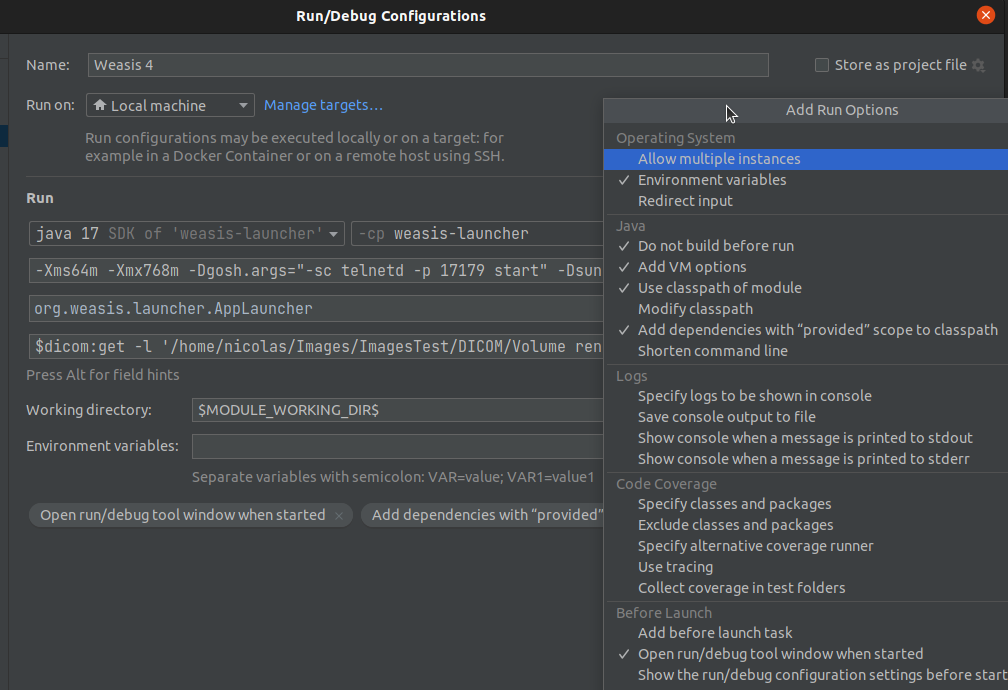
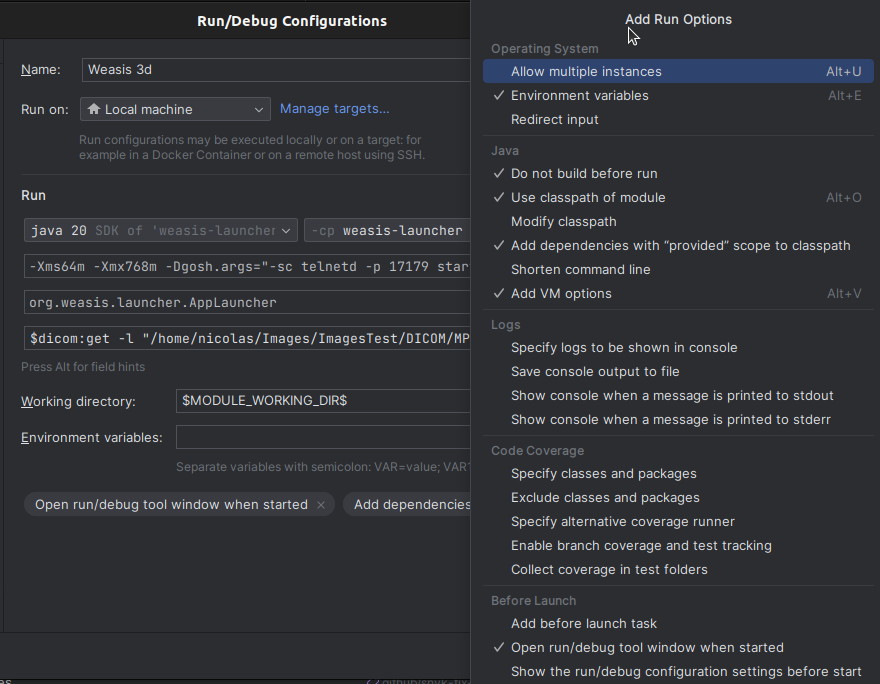
Update build weasis

diff --git a/content/getting-started/building-weasis.en.md b/content/getting-started/building-weasis.en.md
@@ -9,10 +9,10 @@ These instructions describe how to build Weasis directly from the Git repository
 
 **Prerequisites**
 
-1. JDK 17 or higher
+1. JDK 20 or higher
 2. Maven 3.5.3 or higher<br>
    If your computer is behind a proxy server, [configure maven](https://maven.apache.org/guides/mini/guide-proxies.html).
-3. Git or directly download source from [GitHub](https://github.com/nroduit/Weasis)
+3. Git
 
 ### Getting the Source
 
@@ -29,7 +29,7 @@ git clone https://github.com/nroduit/Weasis.git
 mvn clean install
 {{< /highlight >}}
 
-- Package the distribution (output files are located in `target/native-dist/`) {{< badge "v4.0.0" >}} :
+- Package `weasis-native.zip` (located in `target/native-dist/`) {{< badge "v4.0.0" >}} :
 {{< highlight shell >}}
 mvn -P compressXZ -f weasis-distributions clean package
 {{< /highlight >}}
@@ -57,40 +57,26 @@ Since {{< badge "v4.0.0" >}} , the native installer has completely replaced the 
 
 The [official build](https://github.com/nroduit/Weasis/blob/master/.github/workflows/build-installer.yml) is done by Github actions with [GitHub-hosted runners](https://docs.github.com/en/actions/using-github-hosted-runners/about-github-hosted-runners) (Linux, Mac OS and Windows). 
 
-However, it is possible to run a local script `weasis-distributions/script/package-weasis.sh` on most systems but without guarantee because the system must have a correct configuration of several tools (see [jpackage prerequisites](https://docs.oracle.com/en/java/javase/20/jpackage/packaging-overview.html)).
+However, it is possible to run a local script `package-weasis.sh` on most systems but without guarantee because the system must have a correct configuration of several tools (see [jpackage prerequisites](https://docs.oracle.com/en/java/javase/20/jpackage/packaging-overview.html)).
 
-- From the Weasis root folder, unzip the package built in the previous step:
+- Get `weasis-native.zip`, unzip the archive and then go to the root folder with a bash prompt. 
+- Build the native binaries and the installer:
 {{< tabs groupId="build-native" >}}
 {{% tab name="Bash" %}}
 {{< highlight shell >}}
-unzip weasis-distributions/target/native-dist/weasis-native.zip -d weasis-distributions/target/native-dist/weasis-native/
-{{< /highlight >}}
-{{% /tab %}}
-{{< /tabs >}}
-- Build only the native binaries (without installer)
-{{< tabs groupId="build-native" >}}
-{{% tab name="Bash" %}}
-{{< highlight shell >}}
-weasis-distributions/script/package-weasis.sh --input ./weasis-distributions/target/native-dist/weasis-native --output build-dist --no-installer --jdk /home/.jdks/temurin-18.0.1
-{{< /highlight >}}
-{{% /tab %}}
-{{< /tabs >}}
-- Build the native binaries and the installer
-{{< tabs groupId="build-native" >}}
-{{% tab name="Bash" %}}
-{{< highlight shell >}}
-weasis-distributions/script/package-weasis.sh --input ./weasis-distributions/target/native-dist/weasis-native --output build-installer --jdk /home/.jdks/temurin-18.0.1
+./build/script/package-weasis.sh --jdk "/home/.jdks/openjdk-20"
 {{< /highlight >}}
 {{% /tab %}}
 {{< /tabs >}}
 
 {{% notice note %}}
-In the commands above, adapt the options `--output` and `--jdk` to your configuration.<br>
-In order to see the use of the script and its options, run:
-{{< highlight shell >}}
-weasis-distributions/script/package-weasis.sh --help
-{{< /highlight >}}
-{{% /notice %}}
+- In the commands above, adapt the `--jdk` value to your local JDK path.<br>
+- For building only the native binaries (without installer), add the parameter `--no-installer`<br>
+- In order to see the use of the script and its options, run:
+  {{< highlight shell >}}
+  ./build/script/package-weasis.sh --help
+  {{< /highlight >}}
+  {{% /notice %}}
 
 {{% notice tip %}}
 On Windows the bash script must be executed with Git Bash or Cygwin. Avoid having spaces in the input and output paths.

diff --git a/content/getting-started/guidelines.en.md b/content/getting-started/guidelines.en.md
@@ -13,8 +13,8 @@ This page describes the necessary configurations to be able to debug Weasis usin
 We recommend the use of [IntelliJ IDEA](https://www.jetbrains.com/idea/) because the following instructions are based on it. Nevertheless, it is possible to use other IDEs by configuring weasis-launcher with similar instructions described in [Add a launcher](#add-a-launcher).
 ### Prerequisites
 
-1. Install [IntelliJ IDEA](https://www.jetbrains.com/idea/) (Community or Ultimate Edition)
-2. Use JDK 17 or higher and set the language level to 17.
+1. Install [IntelliJ IDEA](https://www.jetbrains.com/idea/) (Community or Ultimate Edition 2023.1 or higher)
+2. Use JDK 20 or higher and set the language level to `20 Preview`.
 ![Project Structure](/images/conf/project-structure.png)
 3. In *File > Settings... > Plugins* install google-java-format plugin from Marketplace and enable it from *google-java-format Settings*
 
@@ -37,7 +37,7 @@ Weasis uses [google-java-format](https://github.com/google/google-java-format) a
 
 {{% notice tip %}}
 * It is possible to use a JVM Option (e.g. `--Dweasis.arch=linux-x86-64`) to limit the build of native plugins only to the architecture of the current system (do not use this option when building the distribution).
-* See also building the final [Weasis Distributions]((../building-weasis#building-native-binaries-and-installers))
+* See also building the final [Weasis Distributions](../building-weasis#building-native-binaries-and-installers)
 {{% /notice %}}  
 
 ### Add a launcher
@@ -51,7 +51,7 @@ For running or debugging Weasis, you need to create a launcher:
   - Click on *Modify Options*
     - Select *Add dependencies with "Provided" scope to classpath*
     - Select *Do not build before run*
-    - Select *Add VM Options* and enter `-Xms64m -Xmx768m -Dgosh.port=17179`
+    - Select *Add VM Options* and enter `-Xms64m -Xmx768m -Dgosh.port=17179 --enable-preview`
   - Working Directory: remove the current value and add *%MODULE_WORKING_DIR%* from the Insert Macros button
 ![Launcher Configuration](/images/conf/launcher.png)
 {{% notice note %}}

diff --git a/content/getting-started/translating.en.md b/content/getting-started/translating.en.md
@@ -5,7 +5,7 @@ keywords: [ "internationalization", "weasis internationalization", "development"
 weight: 80
 ---
 
-Translation files are hosted and managed on the [Transifex](https://www.transifex.com/weasis/public/) website. Get an account at [Transifex](https://www.transifex.com/signin) and help to translate to your language! If your language is missing, just head over to Transifex and request a new language.
+Translation files are hosted and managed on the [Transifex](https://app.transifex.com/weasis/public/) website. Get an account and help to translate to your language! If your language is missing, just head over to Transifex and request a new language.
 
 {{% notice warning %}}
 **Text length**: The translations for many languages frequently exceed the length of the corresponding English source. It could be a problem for the layout of graphical components (e.g. buttons). Some elements have a character limit on the translation tool.
@@ -28,7 +28,7 @@ That means the translation packages can be deployed at any time, it does not nee
 
 {{% notice info %}}
 Additional projects to obtain a full translation of Weasis:<br>
-The [java-swing-dialogs](https://www.transifex.com/organization/weasis/dashboard/java-swing-dialogs) translations must be updated manually in the weasis-launcher module and [docking-frames](https://www.transifex.com/weasis/docking-frames) translations must be packaged witin the library.
+The [java-swing-dialogs](https://app.transifex.com/weasis/java-swing-dialogs) translations must be updated manually in the weasis-launcher module and [docking-frames](https://app.transifex.com/weasis/docking-frames) translations must be packaged witin the library.
 {{% /notice %}}
 
 ### Prerequisites

diff --git a/content/description-1.en.md b/content/description-1.en.md
@@ -1,6 +1,6 @@
 
 Weasis is a multipurpose standalone and web-based DICOM viewer with a highly [modular architecture](basics/architecture). It is a very popular clinical viewer used in healthcare by hospitals, health networks, multicenter research trials, and patients.
 
-Weasis DICOM viewer is cross-platform, free/libre and open source software ([FLOSS](https://en.wikipedia.org/wiki/Free_and_open-source_software)), [multi-language](https://www.transifex.com/weasis/weasis/) and allows [a flexible integration to PACS, RIS, HIS or PHR](basics/customize/integration). This multi-platform DICOM viewer runs with several processor architectures on Windows, Linux, and Mac OS (see the [packages available for download](getting-started/download-dicom-viewer)). It allows high-quality renderings with high performance through the [OpenCV](https://opencv.org) library. 
+Weasis DICOM viewer is cross-platform, free/libre and open source software ([FLOSS](https://en.wikipedia.org/wiki/Free_and_open-source_software)), [multi-language](https://explore.transifex.com/weasis/weasis/) and allows [a flexible integration to PACS, RIS, HIS or PHR](basics/customize/integration). This multi-platform DICOM viewer runs with several processor architectures on Windows, Linux, and Mac OS (see the [packages available for download](getting-started/download-dicom-viewer)). It allows high-quality renderings with high performance through the [OpenCV](https://opencv.org) library. 
 
 Since version 4, it has a responsive user interface linked to the operating system options and works well on high-resolution screens.
